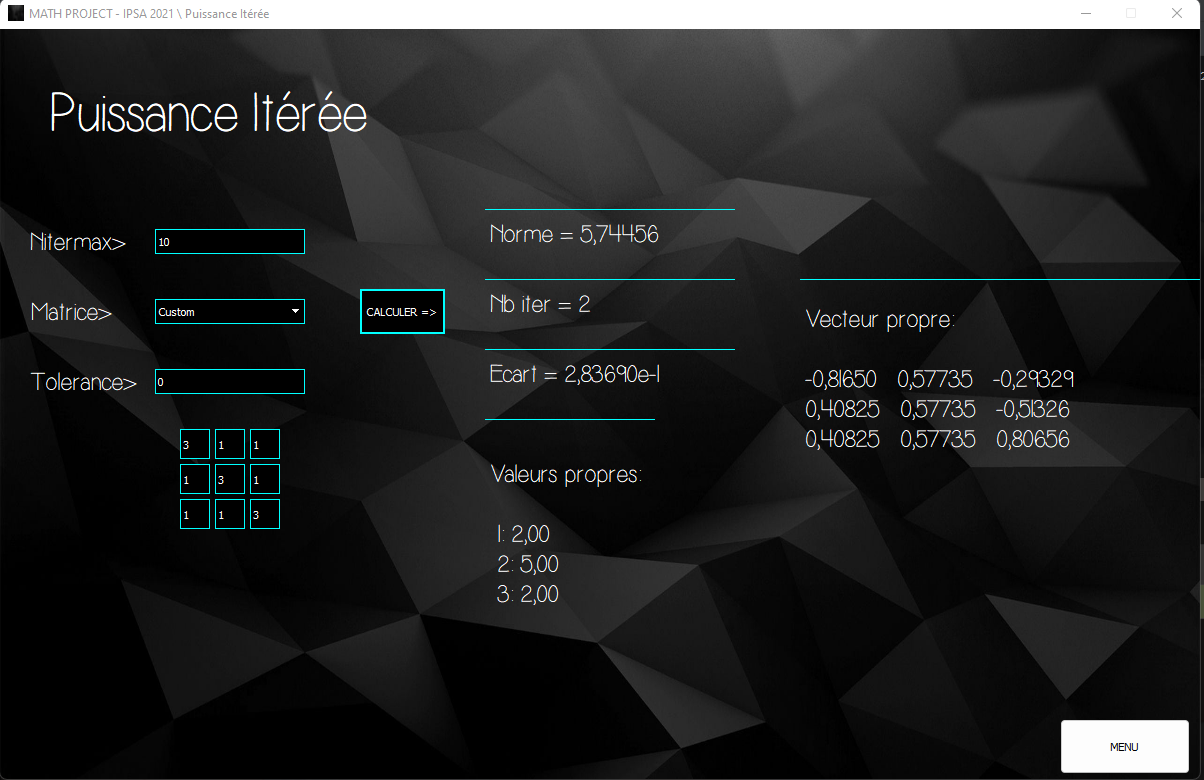
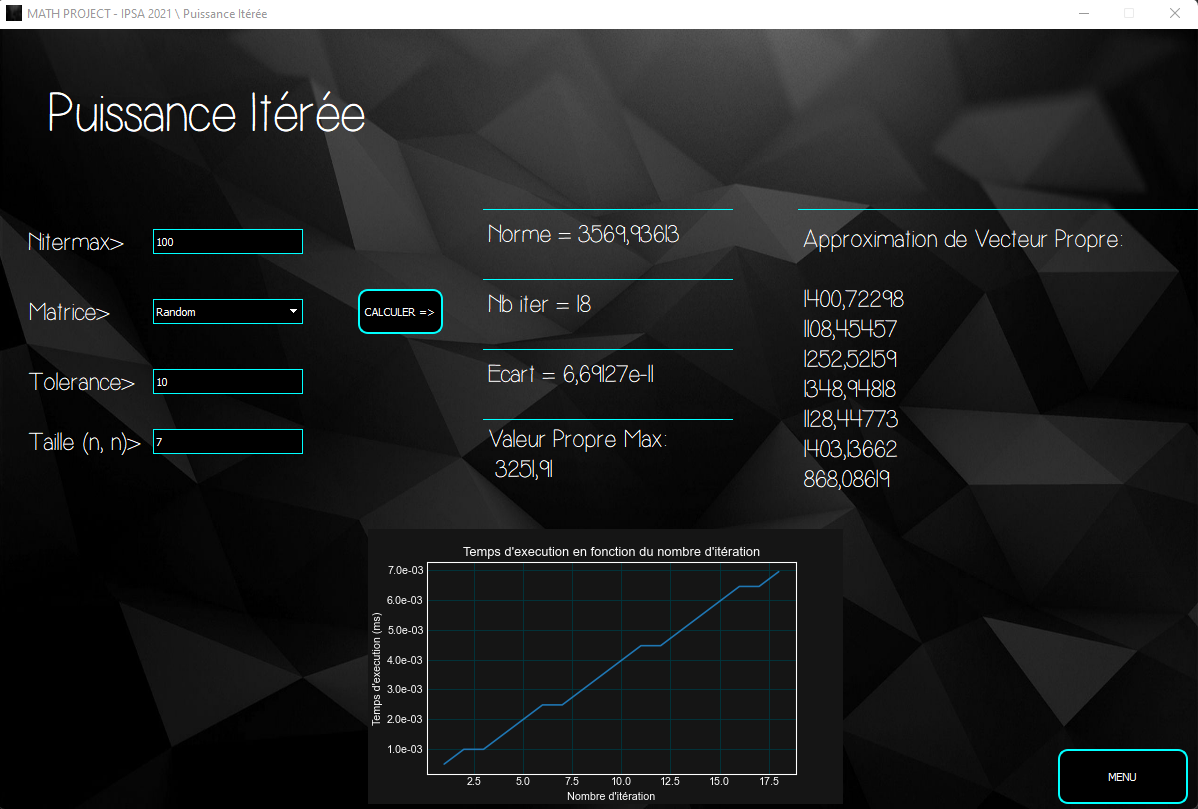
UI: Graph embedded inside the IterativePower page

diff --git a/src/pages/ipPage.py b/src/pages/ipPage.py
@@ -1,15 +1,22 @@
 from decimal import Decimal
 
+import matplotlib.style
 import numpy as np
 from PyQt5 import QtGui, QtWidgets, QtCore, Qt
 from PyQt5.QtGui import QFont, QFontDatabase, QIntValidator
 from PyQt5.QtWidgets import QPushButton, QApplication, QMainWindow, QLabel, QStackedWidget, QHBoxLayout, QVBoxLayout, \
     QWidget, QListWidget, QStackedLayout, QLineEdit, QFormLayout, QComboBox
+from matplotlib import pyplot as plt
+
+
+from src.canvas.Canvas import Canvas
 from src.maths.iterPower import IterPower
 from src.maths.createMatrix import Matrix
 import sys
-
+from matplotlib.backends.backend_qt5agg import FigureCanvasQTAgg as FigureCanvas
 from src.maths.norm import Norm
+
+
 
 
 class IPWindow(object):
@@ -20,30 +27,42 @@ class IPWindow(object):
         self.inputs = []
         self.choice = "Random"
 
-
     def setupUI(self, IPWindow):
-        IPWindow.setGeometry(500, 100, 1200, 750)
-        IPWindow.setFixedSize(1200, 750)
+        IPWindow.setGeometry(500, 100, 1200, 780)
+        IPWindow.setFixedSize(1200, 780)
         IPWindow.setWindowTitle("MATH PROJECT - IPSA 2021 \ Puissance Itérée")
 
-        self.IVWidgets = QWidget(IPWindow)
+        self.IPWidgets = QWidget(IPWindow)
+        self.canvas = Canvas(self.IPWidgets)
+        self.canvas.resize(475, 275)
+        self.canvas.move(370, 500)
 
-        self.labelIV = QLabel(self.IVWidgets)
+
+        '''layout = QtWidgets.QVBoxLayout(self.IPWidgets)
+        layout.addWidget(self.canvas)
+        self.IPWidgets.setLayout(layout)'''
+
+        # self.toolbar = NavigationToolbar(self.canvas, IPWindow)
+
+        # test
+
+        self.labelIV = QLabel(self.IPWidgets)
         self.labelIV.setText("Puissance Itérée")
         self.labelIV.move(50, 50)
         self.labelIV.resize(700, 70)
 
         # Button Home page
-        self.homeBt = QPushButton(self.IVWidgets)
+        self.homeBt = QPushButton(self.IPWidgets)
         self.homeBt.setText("MENU")
-        self.homeBt.move(1060, 690)
+        self.homeBt.move(1060, 720)
         self.homeBt.resize(130, 55)
+        self.homeBt.setProperty("type", 1)
 
         self.entry_widgets()
         self.result_widgets()
         self.move_widgets()
 
-        IPWindow.setCentralWidget(self.IVWidgets)
+        IPWindow.setCentralWidget(self.IPWidgets)
 
     def hide_mat(self, n):
 
@@ -70,19 +89,19 @@ class IPWindow(object):
 
     def entry_widgets(self):
 
-        self.matChoice = QComboBox(self.IVWidgets)
+        self.matChoice = QComboBox(self.IPWidgets)
         self.matChoice.addItem("Random")
         self.matChoice.addItem("Custom")
         self.matChoice.activated[str].connect(self.new_ui)
 
         # Nitermax
-        self.niterMax = QLabel(self.IVWidgets)
+        self.niterMax = QLabel(self.IPWidgets)
         self.niterMax.setText('Nitermax>')
-        self.nmaxInput = QLineEdit(self.IVWidgets)
+        self.nmaxInput = QLineEdit(self.IPWidgets)
 
         # Tolerance value
-        self.epsInput = QLineEdit(self.IVWidgets)
-        self.epsilon = QLabel(self.IVWidgets)
+        self.epsInput = QLineEdit(self.IPWidgets)
+        self.epsilon = QLabel(self.IPWidgets)
         self.epsilon.setText("Tolerance>")
 
         self.nmaxInput.setValidator(self.onlyInt)
@@ -94,26 +113,26 @@ class IPWindow(object):
         self.inputs.append(self.epsInput)
 
         # custom matrix
-        self.custMatrix = QLabel(self.IVWidgets)
+        self.custMatrix = QLabel(self.IPWidgets)
         self.custMatrix.setText("Matrice> ")
         self.custMatrix.setProperty("type", 1)
 
         # Matrix size
-        self.msizeInput = QLineEdit(self.IVWidgets)
-        self.matrixSize = QLabel(self.IVWidgets)
+        self.msizeInput = QLineEdit(self.IPWidgets)
+        self.matrixSize = QLabel(self.IPWidgets)
         self.matrixSize.setText("Taille (n, n)>")
         self.msizeInput.setValidator(self.onlyInt)
         self.matrixSize.setProperty("type", 1)
 
-        self.matA = QLineEdit(self.IVWidgets)
-        self.matB = QLineEdit(self.IVWidgets)
-        self.matC = QLineEdit(self.IVWidgets)
-        self.matD = QLineEdit(self.IVWidgets)
-        self.matE = QLineEdit(self.IVWidgets)
-        self.matF = QLineEdit(self.IVWidgets)
-        self.matG = QLineEdit(self.IVWidgets)
-        self.matH = QLineEdit(self.IVWidgets)
-        self.matI = QLineEdit(self.IVWidgets)
+        self.matA = QLineEdit(self.IPWidgets)
+        self.matB = QLineEdit(self.IPWidgets)
+        self.matC = QLineEdit(self.IPWidgets)
+        self.matD = QLineEdit(self.IPWidgets)
+        self.matE = QLineEdit(self.IPWidgets)
+        self.matF = QLineEdit(self.IPWidgets)
+        self.matG = QLineEdit(self.IPWidgets)
+        self.matH = QLineEdit(self.IPWidgets)
+        self.matI = QLineEdit(self.IPWidgets)
 
         self.matrix = [self.matA, self.matB, self.matC, self.matD, self.matE,
                        self.matF, self.matG, self.matH, self.matI]
@@ -122,32 +141,31 @@ class IPWindow(object):
             mat.setValidator(self.onlyInt)
 
         # calculate button
-        self.calcul = QPushButton(self.IVWidgets)
+        self.calcul = QPushButton(self.IPWidgets)
         self.calcul.setText("Calculer =>")
         self.calcul.setProperty("type", 1)
-
 
         self.calcul.clicked.connect(self.calculate)
 
     def result_widgets(self):
         # Result
-        self.nbiter = QLabel(self.IVWidgets)
+        self.nbiter = QLabel(self.IPWidgets)
         self.nbiter.setText('*Nombre d\'itération*')
         self.nbiter.setProperty("type", 2)
 
-        self.lastdiff = QLabel(self.IVWidgets)
+        self.lastdiff = QLabel(self.IPWidgets)
         self.lastdiff.setText('*Dernier écart*')
         self.lastdiff.setProperty("type", 2)
 
-        self.eigvals = QLabel(self.IVWidgets)
+        self.eigvals = QLabel(self.IPWidgets)
         self.eigvals.setText('*Valeur Propre Max*')
         self.eigvals.setProperty("type", 2)
 
-        self.valnorm = QLabel(self.IVWidgets)
+        self.valnorm = QLabel(self.IPWidgets)
         self.valnorm.setText('*Norme*')
         self.valnorm.setProperty("type", 2)
 
-        self.eigvec = QLabel(self.IVWidgets)
+        self.eigvec = QLabel(self.IPWidgets)
         self.eigvec.setText('*Approximation de Vecteur Propre*')
         self.eigvec.setProperty("type", 2)
 
@@ -223,12 +241,15 @@ class IPWindow(object):
             if self.msizeInput.text() == "":
                 self.msizeInput.setPlaceholderText("Insert an integer")
                 self.startCalc.append(False)
+            elif int(self.msizeInput.text()) > 1000:
+                self.msizeInput.clear()
+                self.msizeInput.setPlaceholderText("< 1001")
+                self.startCalc.append(False)
         else:
             for mat in self.matrix:
                 if mat.text() == "":
                     mat.setPlaceholderText("X")
                     self.startCalc.append(False)
-
 
         if False in self.startCalc:
             self.startCalc.clear()
@@ -249,13 +270,13 @@ class IPWindow(object):
                 matA = np.array(self.mat_inputs)
 
             print(matA)
-            IV = IterPower(matA, eps, nmax)
-            last_diff, nbIter = IV.iter()
+            IP = IterPower(matA, eps, nmax)
+            last_diff, nbIter = IP.iter()
             last_diff = "{:.5e}".format(Decimal(last_diff)).replace(".", ",")
 
             self.eigvals.resize(250, 100)
             self.eigvec.resize(450, 300)
-            vals, vecs = IV.eigvals()
+            vals, vecs = IP.eigvals()
             val = "{:.2f}".format(Decimal(vals)).replace(".", ",")
             eigvals_txt = f"Valeur Propre Max: \n {val} \n"
 
@@ -279,3 +300,7 @@ class IPWindow(object):
             self.nbiter.setText(f"Nb iter = {nbIter}")
             self.lastdiff.setText(f"Ecart = {last_diff}")
             self.eigvals.setText(eigvals_txt)
+            iter_list, proc_list = IP.get_datas()
+
+            self.canvas.plot(iter_list, proc_list)
+            self.canvas.draw()

diff --git a/src/maths/iterPower.py b/src/maths/iterPower.py
@@ -1,3 +1,4 @@
+import time
 import numpy as np
 
 
@@ -15,6 +16,8 @@ class IterPower:
         self.diff = None
         self.verif = False
         self.vp = None
+        self.proc_time = []
+        self.iter_list = []
 
     def w_sequence(self, k):
         w = (np.linalg.matrix_power(self.A, k) @ self.x) / (np.linalg.norm((np.linalg.matrix_power(self.A, k)) @ self.x))
@@ -26,8 +29,10 @@ class IterPower:
 
     def iter(self):
 
+        start = time.time()
         for k in range(1, self.nmax):
             print("k=", k)
+            self.iter_list.append(k)
             self.w = self.w_sequence(k)
             print(self.w, self.old_w)
             if self.old_w is not None:
@@ -42,13 +47,16 @@ class IterPower:
                 self.verif = False
 
             if self.verif:
-
+                stop = time.time()
+                self.proc_time.append(stop - start)
                 return self.diff, k
 
             else:
                 self.old_w = self.w
                 self.c = self.c_sequence(self.w)
                 self.vp = np.linalg.norm(self.c)
+                stop = time.time()
+                self.proc_time.append(stop - start)
 
         self.verif = False
         return self.diff, (self.nmax - 1)
@@ -57,6 +65,11 @@ class IterPower:
         #vals, vec = np.linalg.eig(self.A)
 
         return self.vp, self.c
+
+    def get_datas(self):
+
+        return self.iter_list, self.proc_time
+
 
 '''if __name__ == '__main__':
     n = 3

diff --git a/src/canvas/Canvas.py b/src/canvas/Canvas.py
@@ -1,0 +1,34 @@
+from matplotlib import pyplot as plt
+import matplotlib.ticker as mtick
+from matplotlib.backends.backend_qt5agg import FigureCanvasQTAgg as FigureCanvas
+from matplotlib.backends.backend_qt5agg import NavigationToolbar2QT as NavigationToolbar
+
+
+def dark_style():
+    plt.style.use("seaborn-dark")
+    for param in ['figure.facecolor', 'axes.facecolor', 'savefig.facecolor']:
+        plt.rcParams[param] = '#151515'  # bluish dark grey
+    for param in ['text.color', 'xtick.color', 'grid.color', 'ytick.color', 'axes.labelcolor']:
+        plt.rcParams[param] = 'white'  # very light grey
+    plt.rcParams["axes.edgecolor"] = "white"
+    plt.rcParams["axes.linewidth"] = 1
+
+
+class Canvas(FigureCanvas):
+
+    def __init__(self, parent):
+        dark_style()
+
+        fig, self.ax = plt.subplots(dpi=77)
+        super().__init__(fig)
+        self.setParent(parent)
+        self.ax.grid(c="#003740")
+
+    def plot(self, x, y):
+        self.ax.clear()
+        self.ax.set(xlabel='Nombre d\'itération', ylabel='Temps d\'execution (ms)', title='Temps d\'execution en '
+                                                                                          'fonction du nombre '
+                                                                                          'd\'itération')
+        self.ax.yaxis.set_major_formatter(mtick.FormatStrFormatter('%.1e'))
+        self.ax.grid(c="#003740")
+        self.ax.plot(x, y)

diff --git a/src/maths/invPower.py b/src/maths/invPower.py
@@ -1,5 +1,6 @@
 import numpy as np
 
+
 class InvPower:
 
     def __init__(self, A, eps, nmax):
@@ -55,6 +56,6 @@ class InvPower:
         return self.diff, (self.nmax - 1)
 
     def eigvals(self):
-        #vals, vec = np.linalg.eig(self.A)
-
+        vals, vec = np.linalg.eig(self.A)
+        print(vals, vec)
         return self.vp, self.c

diff --git a/src/pages/ivPage.py b/src/pages/ivPage.py
@@ -38,6 +38,7 @@ class IVWindow(object):
         self.homeBt.setText("MENU")
         self.homeBt.move(1060, 690)
         self.homeBt.resize(130, 55)
+        self.homeBt.setProperty("type", 1)
 
         self.entry_widgets()
         self.result_widgets()

diff --git a/src/pages/home.py b/src/pages/home.py
@@ -31,4 +31,7 @@ class Main(object):
         self.ivBt.move(320, 250)
         self.ivBt.resize(125, 55)
 
+        self.ipBt.setProperty("type", 1)
+        self.ivBt.setProperty("type", 1)
+
         Main.setCentralWidget(self.mainWidget)
